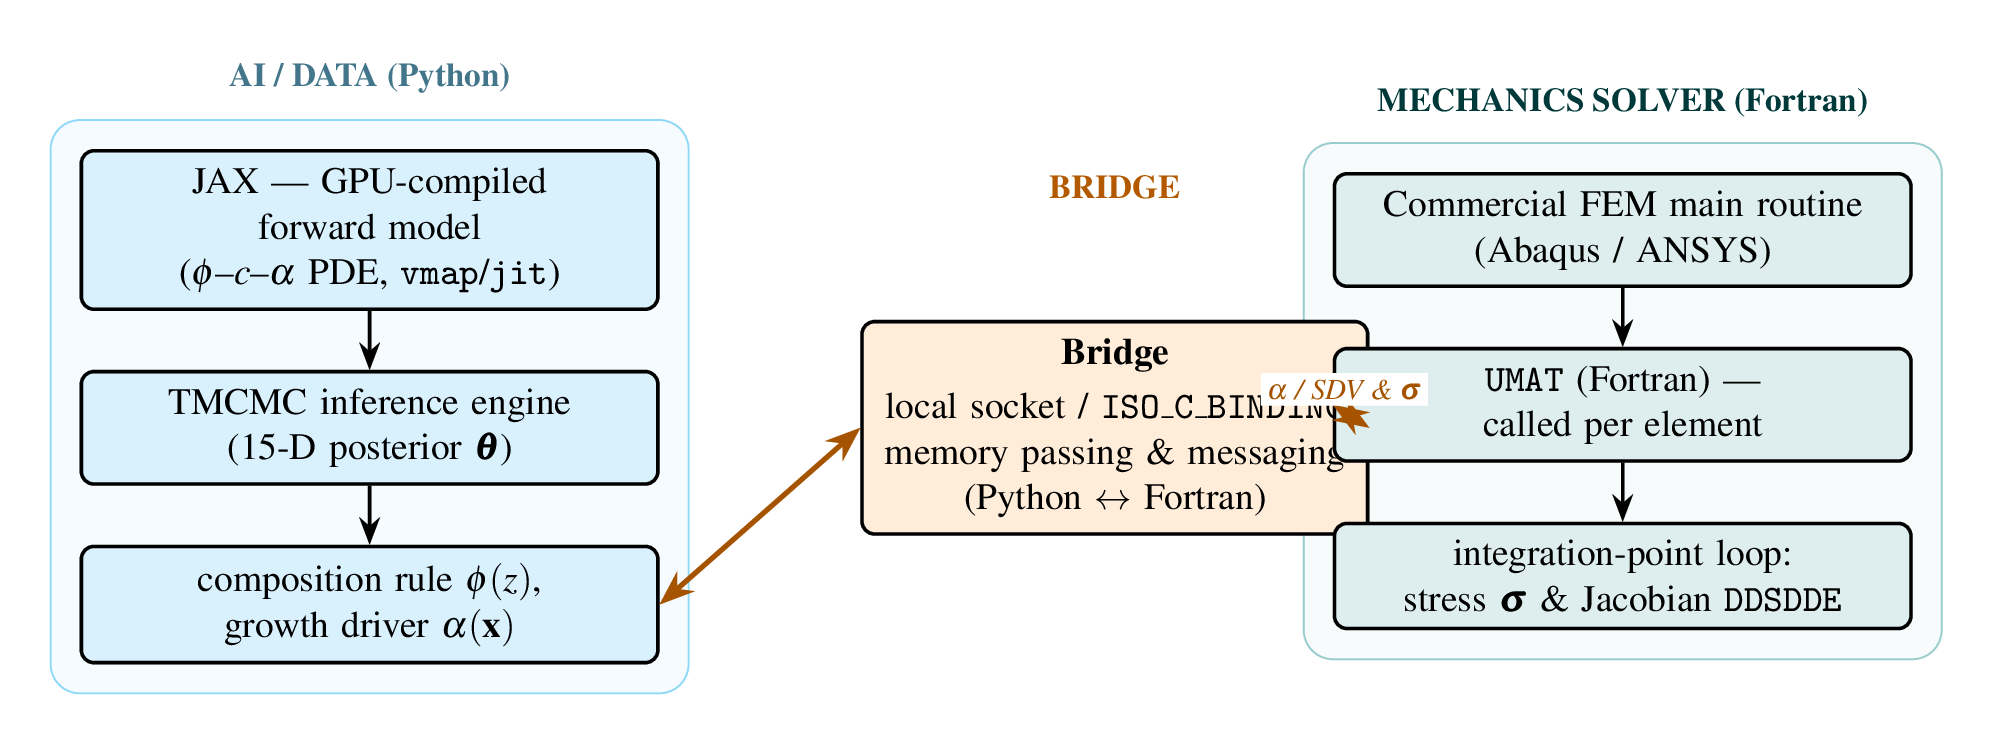
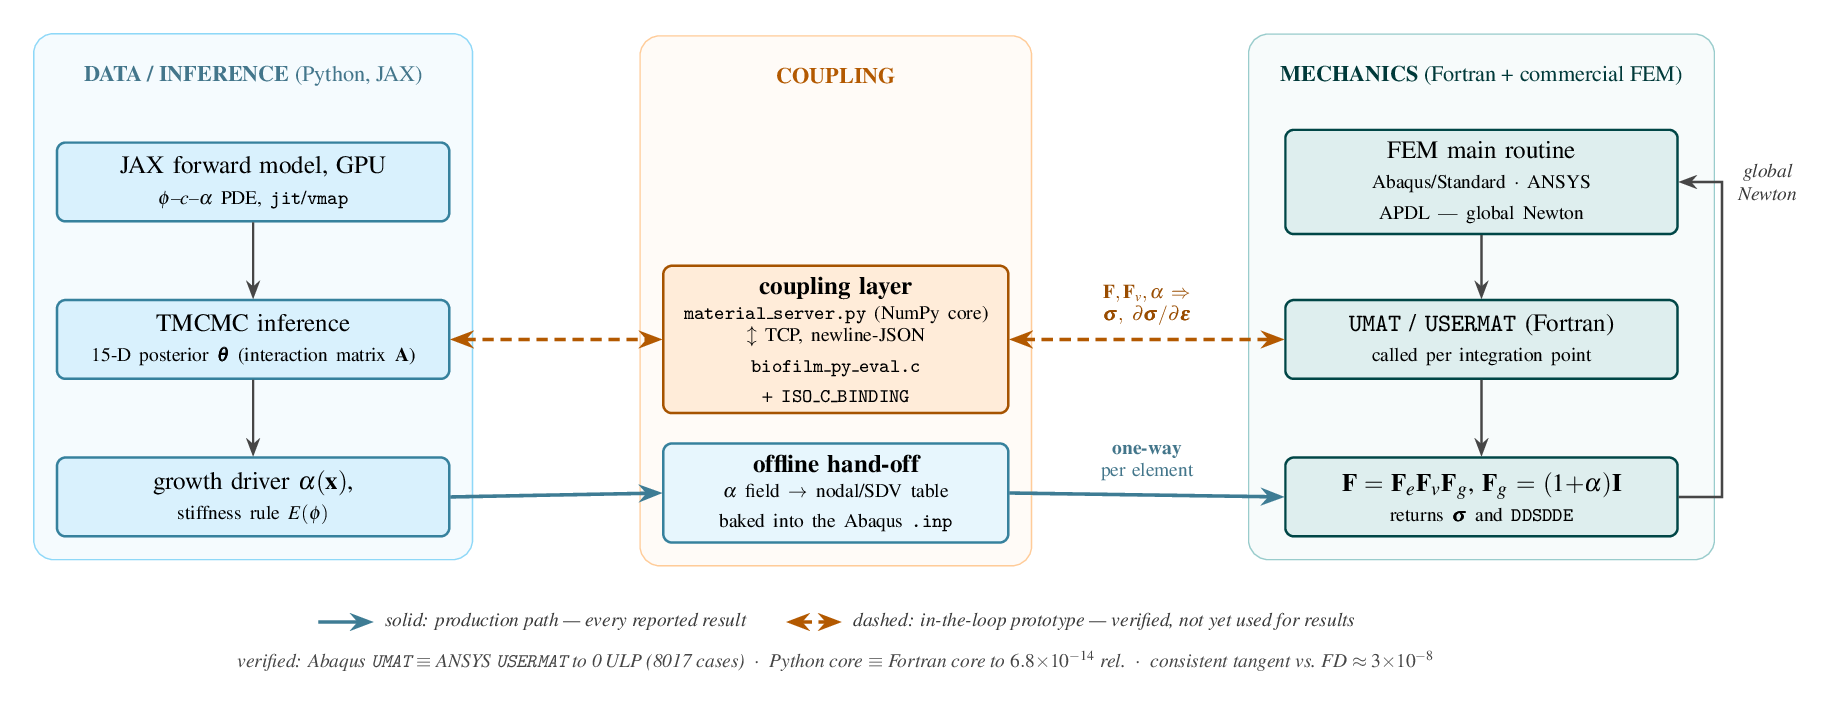
Rebuild the implementation-architecture figure; correct phi/psi provenance
The figure (ch5_flow/flow_impl_architecture.tex) had colliding geometry: the
bridge box and the FEM column were placed with inconsistent anchors, leaving a
zero-length arrow between them whose "alpha/SDV & sigma" label landed on top of
the ISO_C_BINDING text, and the BRIDGE header floated detached from the other
two column headers.

Rebuilt on an explicit 3-column grid with a single source of truth for the
column x-centres, headers included in the background panel fits, and arrow
labels lifted clear of their lines. Verified by rendering, not by inspection.

The figure also now distinguishes the two coupling paths, which the old version
conflated: solid = the offline one-way path (alpha field baked into the .inp)
that produced every reported result; dashed = the in-the-loop socket prototype,
verified against the Fortran core but not used for any reported number. The
verification evidence is carried in the figure itself.

Separately, RESEARCH_MODEL.md described TMCMC as calibrating the interaction
matrix "not the composition", which was accurate for Phase 1 only. The
companion TMCMC paper releases the viability psi in Phase 2 under a soft
constraint and reports a joint posterior over A and psi. Section 1 now states
the two state variables, the living volume fraction phibar = phi*psi, and the
two-phase calibration explicitly; the measured/calibrated/assumed table gains a
psi row, and the companion paper gets a BibTeX entry.
[…]

diff --git a/ch5_flow/flow_impl_architecture.tex b/ch5_flow/flow_impl_architecture.tex
@@ -1,55 +1,108 @@
 % flow_impl_architecture.tex — implementation architecture / tech stack
 % Python(JAX) <-> bridge (socket / ISO_C_BINDING) <-> Fortran UMAT <-> commercial FEM.
+%
+% Two coupling paths are distinguished deliberately:
+%   SOLID  = production path used for the thesis results (offline / one-way:
+%            the alpha field is precomputed and baked into the INP).
+%   DASHED = in-the-loop prototype (ansys_usermat/coupling/) — verified against
+%            the Fortran core, but not used to produce any reported number.
+%
 % Usage: \resizebox{\linewidth}{!}{\input{flow_impl_architecture.tex}}
+% Requires: amsmath, bm; tikzlibrary{arrows.meta,positioning,fit,backgrounds,calc}
 \begin{tikzpicture}[
   every node/.style = {font=\small},
-  N/.style  = {draw, rounded corners=3pt, align=center, thick,
-               text width=4.6cm, minimum height=0.8cm, inner sep=4pt},
-  Npy/.style= {N, fill=cyan!13},
-  Nbr/.style= {N, fill=orange!15},
-  Nfe/.style= {N, fill=teal!13},
-  ar/.style = {-Stealth, thick},
-  bi/.style = {Stealth-Stealth, very thick, orange!65!black},
-  hd/.style = {font=\footnotesize\bfseries},
-  lbl/.style= {font=\scriptsize\itshape, fill=white, inner sep=1.5pt, align=center},
+  % --- column geometry (single source of truth) ---
+  N/.style   = {draw, rounded corners=3pt, align=center, thick,
+                text width=4.7cm, minimum height=1.0cm, inner sep=4pt},
+  Npy/.style = {N, fill=cyan!13,   draw=cyan!55!black},
+  Nbr/.style = {N, fill=orange!15, draw=orange!65!black, text width=4.1cm},
+  Nfe/.style = {N, fill=teal!13,   draw=teal!55!black},
+  % --- arrows ---
+  ar/.style  = {-Stealth, thick, gray!55!black},
+  prod/.style= {-Stealth, very thick, cyan!50!black},
+  proto/.style={Stealth-Stealth, very thick, orange!70!black, dashed, dash pattern=on 4pt off 2.5pt},
+  hd/.style  = {font=\footnotesize\bfseries},
+  lbl/.style = {font=\scriptsize, inner sep=2pt, align=center, text width=2.9cm,
+                rounded corners=1.5pt},
+  note/.style= {font=\scriptsize\itshape, align=center, text=gray!45!black},
 ]
 
-% ── left: Python / AI side ──────────────────────────────────────────
-\node[Npy] (py1) {JAX — GPU-compiled forward model\\ ($\phi$–$c$–$\alpha$ PDE, \texttt{vmap}/\texttt{jit})};
-\node[Npy, below=0.5cm of py1] (py2) {TMCMC inference engine\\ (15-D posterior $\bm\theta$)};
-\node[Npy, below=0.5cm of py2] (py3) {composition rule $\phi(z)$,\\ growth driver $\alpha(\mathbf x)$};
+% ══ column x-centres (single source of truth; gutters > 3cm so no label collides) ══
+\def\cA{0}\def\cB{7.4}\def\cC{15.6}
+% ══ row y-centres ══
+\def\rI{0}\def\rII{-2.0}\def\rIII{-4.0}
 
-% ── center: bridge ──────────────────────────────────────────────────
-\node[Nbr, right=1.7cm of py2, text width=4.0cm] (br) {%
-  \textbf{Bridge}\\[2pt]
-  local socket / \texttt{ISO\_C\_BINDING}\\
-  memory passing \& messaging\\
-  (Python $\leftrightarrow$ Fortran)};
+% ── left: data / inference side (Python) ────────────────────────────
+\node[Npy] (py1) at (\cA,\rI)  {JAX forward model, GPU\\
+  \scriptsize $\phi$--$c$--$\alpha$ PDE, \texttt{jit}/\texttt{vmap}};
+\node[Npy] (py2) at (\cA,\rII) {TMCMC inference\\
+  \scriptsize 15-D posterior $\bm\theta$ (interaction matrix $\mathbf A$)};
+\node[Npy] (py3) at (\cA,\rIII){growth driver $\alpha(\mathbf x)$,\\
+  \scriptsize stiffness rule $E(\phi)$};
 
-% ── right: mechanics solver ─────────────────────────────────────────
-\node[Nfe, right=1.7cm of py1, xshift=4.0cm] (fe1) {%
-  Commercial FEM main routine\\ (Abaqus / ANSYS)};
-\node[Nfe, below=0.5cm of fe1] (fe2) {%
-  \texttt{UMAT} (Fortran) — called per element};
-\node[Nfe, below=0.5cm of fe2] (fe3) {%
-  integration-point loop:\\ stress $\bm\sigma$ \& Jacobian \texttt{DDSDDE}};
+% ── centre: the bridge ──────────────────────────────────────────────
+\node[Nbr] (br) at (\cB,\rII) {\textbf{coupling layer}\\[1pt]
+  \scriptsize \texttt{material\_server.py} (NumPy core)\\
+  \scriptsize $\updownarrow$ TCP, newline-JSON\\
+  \scriptsize \texttt{biofilm\_py\_eval.c} + \texttt{ISO\_C\_BINDING}};
 
-% arrows
+% offline hand-off (production): a plain artifact, not a live channel
+\node[Nbr, fill=cyan!8, draw=cyan!55!black, text width=4.1cm] (off) at (\cB,\rIII+0.05)
+  {\textbf{offline hand-off}\\[1pt]
+   \scriptsize $\alpha$ field $\to$ nodal/SDV table\\
+   \scriptsize baked into the Abaqus \texttt{.inp}};
+
+% ── right: mechanics solver (Fortran) ───────────────────────────────
+\node[Nfe] (fe1) at (\cC,\rI)  {FEM main routine\\
+  \scriptsize Abaqus/Standard $\cdot$ ANSYS APDL --- global Newton};
+\node[Nfe] (fe2) at (\cC,\rII) {\texttt{UMAT} / \texttt{USERMAT} (Fortran)\\
+  \scriptsize called per integration point};
+\node[Nfe] (fe3) at (\cC,\rIII){$\mathbf F=\mathbf F_e\mathbf F_v\mathbf F_g$,\ $\mathbf F_g=(1{+}\alpha)\mathbf I$\\
+  \scriptsize returns $\bm\sigma$ and \texttt{DDSDDE}};
+
+% ── intra-column flow ───────────────────────────────────────────────
 \draw[ar] (py1) -- (py2);
 \draw[ar] (py2) -- (py3);
 \draw[ar] (fe1) -- (fe2);
 \draw[ar] (fe2) -- (fe3);
-\draw[bi] (py3.east) -- (br.west);
-\draw[bi] (br.east) -- (fe2.west) node[lbl,pos=0.68,above=1pt]{$\alpha$ / SDV \& $\bm\sigma$};
+\draw[ar] (fe3.east) -- ++(0.55,0) |- (fe1.east)
+  node[note, pos=0.5, right=2pt, anchor=west]{global\\Newton};
 
-% column headers
-\node[hd, above=0.35cm of py1.north, text=cyan!45!black] {AI / DATA (Python)};
-\node[hd, above=0.9cm of br.north, text=orange!70!black, anchor=south] at (br.north) {BRIDGE};
-\node[hd, above=0.35cm of fe1.north, text=teal!45!black] {MECHANICS SOLVER (Fortran)};
+% ── production path: py3 -> offline -> fe3 (solid) ──────────────────
+\draw[prod] (py3.east) -- (off.west);
+\draw[prod] (off.east) -- (fe3.west);
+\node[lbl, text=cyan!45!black, anchor=south, yshift=3pt] at ($(off.east)!0.5!(fe3.west)$)
+  {\textbf{one-way}\\ per element};
 
+% ── prototype path: br <-> fe2 (dashed, bidirectional) ──────────────
+\draw[proto] (py2.east) -- (br.west);
+\draw[proto] (br.east)  -- (fe2.west);
+\node[lbl, text=orange!60!black, anchor=south, yshift=3pt] at ($(br.east)!0.5!(fe2.west)$)
+  {$\mathbf F,\mathbf F_v,\alpha \Rightarrow$\\ $\bm\sigma,\ \partial\bm\sigma/\partial\bm\varepsilon$};
+
+% ── column headers ──────────────────────────────────────────────────
+\node[hd, text=cyan!45!black] (hA) at (\cA,\rI+1.35) {DATA / INFERENCE \textnormal{(Python, JAX)}};
+\node[hd, text=orange!70!black](hB) at (\cB,\rI+1.35) {COUPLING};
+\node[hd, text=teal!45!black]  (hC) at (\cC,\rI+1.35) {MECHANICS \textnormal{(Fortran + commercial FEM)}};
+
+% ── legend / verification strip ─────────────────────────────────────
+\node[note, anchor=north] (leg) at (\cB,\rIII-1.35) {%
+  \tikz[baseline=-0.5ex]\draw[prod](0,0)--(0.7,0);\ \ solid: production path — every reported result\qquad
+  \tikz[baseline=-0.5ex]\draw[proto](0,0)--(0.7,0);\ \ dashed: in-the-loop prototype — verified, not yet used for results};
+
+\node[note, anchor=north, text=gray!55!black] at (leg.south)
+  {verified: Abaqus \texttt{UMAT} $\equiv$ ANSYS \texttt{USERMAT} to 0\,ULP (8017 cases)\ \ $\cdot$\ \
+   Python core $\equiv$ Fortran core to $6.8{\times}10^{-14}$ rel.\ \ $\cdot$\ \
+   consistent tangent vs.\ FD $\approx 3{\times}10^{-8}$};
+
+% ── background panels (headers included in the fit) ─────────────────
 \begin{scope}[on background layer]
-  \node[draw=cyan!40, fill=cyan!3, rounded corners=7pt, inner sep=7pt, fit=(py1)(py2)(py3)] {};
-  \node[draw=teal!40, fill=teal!3, rounded corners=7pt, inner sep=7pt, fit=(fe1)(fe2)(fe3)] {};
+  \node[draw=cyan!40,   fill=cyan!3,   rounded corners=7pt, inner sep=8pt,
+        fit=(hA)(py1)(py2)(py3)] {};
+  \node[draw=orange!40, fill=orange!3, rounded corners=7pt, inner sep=8pt,
+        fit=(hB)(br)(off)] {};
+  \node[draw=teal!40,   fill=teal!3,   rounded corners=7pt, inner sep=8pt,
+        fit=(hC)(fe1)(fe2)(fe3)] {};
 \end{scope}
 
 \end{tikzpicture}

diff --git a/RESEARCH_MODEL.md b/RESEARCH_MODEL.md
@@ -33,21 +33,49 @@ Four clinical conditions: **CH** commensal-HOBIC · **DH** dysbiotic-HOBIC ·
 **Five species** (early coloniser → pathogen):
 *S. oralis, A. naeslundii, Veillonella, F. nucleatum, P. gingivalis*, with Σφᵢ = 1.
 
-**Model.** A 0-D ODE on the volume fractions,
+**State variables.** Two fields per species — they are *not* interchangeable:
+
+| Symbol | Meaning | Range |
+|---|---|---|
+| **φᵢ** | volume fraction occupied by species i | ∈[0,1], with a void fraction φ₀ closing Σₗ₌₀ⁿ φₗ = 1 |
+| **ψᵢ** | **viability** — the living fraction within species i | ∈[0,1], measured as the membrane-intact ratio |
+| **φ̄ᵢ = φᵢψᵢ** | **living volume fraction** — the quantity that actually drives the interactions | — |
+
+**Model.** Evolution equations derived from the extended Hamilton principle
+(Junker & Balzani 2021; Klempt et al.), i.e. a 0-D coupled ODE system in
+(φ, φ₀, ψ, γ):
 
 $$\dot{\boldsymbol\varphi} = f(\boldsymbol\varphi, \boldsymbol\psi; \boldsymbol\theta)$$
 
-with **20 parameters** θ: the species **interaction matrix A**, viability ψᵢ,
-decay bᵢ, and Hill-function gating for the *F. nucleatum → P. gingivalis*
-pathway (the dysbiotic cascade).
+The dissipation potential couples the two fields non-linearly through
+`φ̄̇ᵢ = φ̇ᵢψᵢ + φᵢψ̇ᵢ`, so φ and ψ cannot be solved independently. The free
+parameters θ are the **15 independent entries of the symmetric interaction
+matrix A** (symmetry `Aᵢⱼ = Aⱼᵢ` follows from the variational derivation);
+the antibiotic decay vector b is inactive here (α\* = 0, no antibiotic in the
+Heine experiments) and c\* is fixed at 25 because only the product c\*Aᵢⱼ is
+identifiable.
 
-**Calibration.** TMCMC (β: 0→1, 8 stages, 150 particles) against the measured
-time series (6 timepoints × 5 species) → MAP + 95 % CI.
+**Calibration — two phases** (Nishioka et al., TMCMC paper):
 
-> **Provenance, stated precisely:** TMCMC calibrates **A and the rates** — *not*
-> the composition. φ is **CLSM-measured** and enters as an input. The full 15-D
-> inverse problem is under-identified; this separation is a deliberate, audited
-> choice (see the rigor audit).
+| Phase | ψ | What is inferred |
+|---|---|---|
+| **1 (fix-ψ)** | **fixed** to the measured membrane-intact ratios | A only — halves the Jacobian (2n+2 → n+2) and removes ψ-related posterior modes |
+| **2 (free ψ)** | **released**, measured ψ enters the likelihood as a soft constraint `−Σ(ψᵢ−ψᵢ^exp)²/2σ_ψ²` | a **self-consistent joint posterior over A *and* ψ** (10 000 particles) |
+
+TMCMC tempers β: 0→1 with adaptive stage selection; the forward model is
+JIT-compiled in JAX and the particle ensemble evaluated by `vmap` on GPU
+(≈200× over the CPU baseline).
+
+> **Provenance, stated precisely:** TMCMC calibrates the **interaction matrix A**
+> (and, in Phase 2, **ψ**) — *not* the composition. **φ is CLSM-measured** and
+> enters as data/initial condition. The 15-D inverse problem is under-identified
+> against 5 usable timepoints × 5 species, which is exactly why ψ is pinned in
+> Phase 1 before being released; this separation is a deliberate, audited choice
+> (see the rigor audit).
+
+> **Do not write "TMCMC does not calibrate ψ".** That is true of Phase 1 only.
+> Phase 2 reports a posterior over ψ, and M. Soleimani and P. Junker are
+> co-authors on both the TMCMC paper and the constitutive paper.
 
 **For the FEM**, the TMCMC growth parameters map to a Monod rate,
 `r ≈ maxᵢ(aᵢᵢ) / t_scale` (derivation in `methods_supplement_fem.md` §3).
@@ -99,8 +127,9 @@ The single most important table for the Limitations section.
 
 | Quantity | Status | Basis |
 |---|---|---|
-| Composition **φ** | 🟢 **measured** | CLSM, 5 species × 6 timepoints |
-| Interaction matrix **A**, rates | 🟢 **calibrated** | TMCMC, MAP + 95 % CI |
+| Composition **φ** | 🟢 **measured** | CLSM, 5 species × 6 timepoints (Day 1 consumed as the initial condition) |
+| Interaction matrix **A** (15 entries) | 🟢 **calibrated** | TMCMC, MAP + 95 % CI |
+| Viability **ψ** | 🟢 **measured, then calibrated** | membrane-intact ratio fixes it in Phase 1; Phase 2 releases it under a soft constraint and returns a posterior |
 | Growth kinematics, tangent, mesh | 🟢 **verified** | consistent tangent vs FD ≈ 2.4–3.0e-8; patch tests 13/13; mesh convergence |
 | Constitutive implementation | 🟢 **verified across 3 codes** | Abaqus UMAT ≡ ANSYS USERMAT (0 ULP) ≡ Python core (6.8e-14 rel.) |
 | Growth magnitude **α** | 🟡 **magnitude-anchored** | thickness 1.5–3.5× → α ≈ 0.5–2.5; **not** calibrated per condition |

diff --git a/README.md b/README.md
@@ -50,9 +50,12 @@ CLSM composition + TMCMC-calibrated dynamics (interaction matrix A) → JAXFEM P
 α-field → tooth Abaqus UMAT (isotropic `Fg=(1+α)I`) → 4-condition von Mises
 comparison.*
 
-- **Composition φ is CLSM-measured.** TMCMC calibrates the species **interaction
-  matrix A** and rate parameters — *not* the composition (the 15-D inverse
-  problem is under-identified; see the audit below).
+- **Composition φ is CLSM-measured.** TMCMC calibrates the 15 entries of the
+  symmetric species **interaction matrix A** — *not* the composition (the 15-D
+  inverse problem is under-identified; see the audit below). The viability ψ is
+  fixed to the measured membrane-intact ratio in Phase 1 and **released into the
+  posterior in Phase 2** under a soft constraint; φ̄ = φ·ψ is the living volume
+  fraction that drives the interactions. Details: [`RESEARCH_MODEL.md`](RESEARCH_MODEL.md) §1.
 - **Growth is isotropic** `Fg = (1+α) I` (Klempt 2024), implemented in the
   production UMAT `umat_klempt_alpha.f` (`Fg = s·I, s = 1+α`).
 
@@ -177,4 +180,5 @@ embed the vector `.tex`/PDF, not the PNG.**
 - **Wriggers & Junker (2024)** — Hamilton-principle diffusion-driven biofilm growth, *CMAME*
 - **Junker & Balzani (2021)** — Hamilton model for biofilm mechanics
 - **Sun, Chaikof & Levenston (2008)** — consistent algorithmic tangent by perturbation
-- **Nishioka–Heine (2025)** — TMCMC 5-species oral biofilm calibration (companion paper)
+- **Nishioka et al.** — *GPU-accelerated Bayesian inference of multi-species biofilm interaction parameters via TMCMC* (companion paper; supplies the posterior over **A** and **ψ** consumed here)
+- **Heine et al. (2025)** — in-vitro 5-species peri-implant biofilm, *Front. Oral Health* (the CLSM composition and viability data)

diff --git a/ch5_flow/README.md b/ch5_flow/README.md
@@ -19,7 +19,7 @@ high-resolution PNGs (Times, 200 dpi) live in `../assets/`.
 | 8 | `flow_data_pipeline` | overview | End-to-end: CLSM/FISH images → TMCMC inference → FEM mapping → prediction |
 | 10 | `flow_czm_traction_separation` | 5.x | Cohesive zone model: traction–separation law, damage `D:0→1`, delamination |
 | 12 | `flow_boundary_conditions` | 5.x | Multiscale BCs on Ti / biofilm / fluid layers (mech + chem + lateral) |
-| 13 | `flow_impl_architecture` | impl | Python(JAX) ↔ bridge (socket / `ISO_C_BINDING`) ↔ Fortran UMAT ↔ commercial FEM |
+| 13 | `flow_impl_architecture` | impl | Python(JAX) ↔ coupling layer ↔ Fortran `UMAT`/`USERMAT` ↔ commercial FEM. **Solid** = the offline production path behind every reported result; **dashed** = the in-the-loop socket prototype (verified, not yet used for results) |
 | 14 | `flow_vv_convergence` | App. C | PDE V&V: analytic vs finite-volume + log-log 2nd-order (`O(Δz²)`) convergence |
 | 15 | `flow_timescale_separation` | 5.x | Biology (days) vs mechanics (ms–s) time-scale separation (gear-meshed loops) |
 | 1 | `flow_growth_kinematics` | theory | Multiplicative growth split `F=Fe·Fg`: reference → grown (incompatible) → current (residual stress) |
